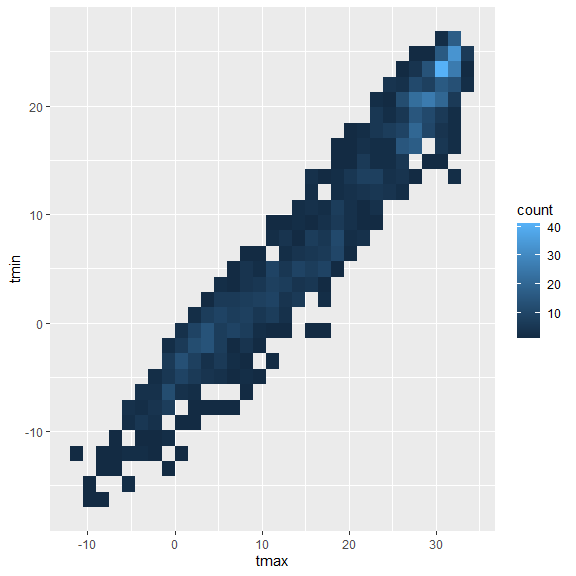
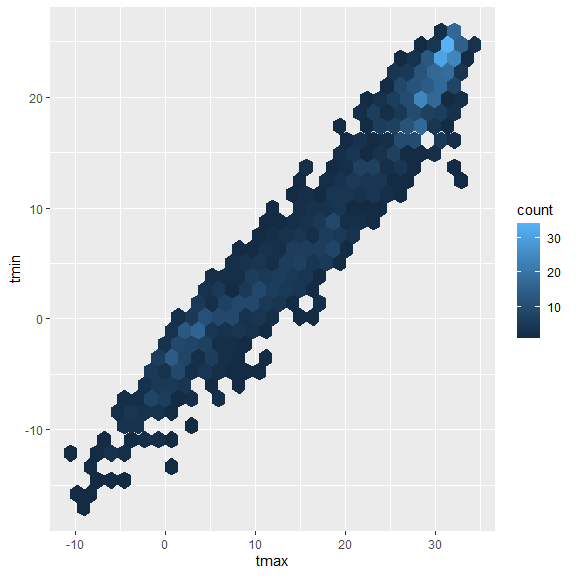
modified part 1

diff --git a/visualization.md b/visualization.md
@@ -7,14 +7,14 @@ Wenzhao Wu
 library(tidyverse)
 ```
 
-    ## -- Attaching packages ---------------------- tidyverse 1.3.0 --
+    ## -- Attaching packages ----------- tidyverse 1.3.0 --
 
     ## v ggplot2 3.3.2     v purrr   0.3.4
     ## v tibble  3.0.3     v dplyr   1.0.2
     ## v tidyr   1.1.2     v stringr 1.4.0
     ## v readr   1.3.1     v forcats 0.5.0
 
-    ## -- Conflicts ------------------------- tidyverse_conflicts() --
+    ## -- Conflicts -------------- tidyverse_conflicts() --
     ## x dplyr::filter() masks stats::filter()
     ## x dplyr::lag()    masks stats::lag()
 
@@ -170,15 +170,38 @@ ggplot(weather_df, aes(x = date, y = tmax, color = name)) +
 <img src="visualization_files/figure-gfm/unnamed-chunk-8-1.png" width="90%" />
 
 ``` r
-ggplot(weather_df,aes(x = tmax, y = tmin, color = "CentralPark_NY")) + geom_point() +
-geom_smooth(se = FALSE, color = "blue")
+weather_df %>%
+  mutate(
+    tmin = 9 * tmin / 5 + 32,
+    tmax = 9 * tmax / 5 + 32
+  )
 ```
 
-    ## `geom_smooth()` using method = 'gam' and formula 'y ~ s(x, bs = "cs")'
+    ## # A tibble: 1,095 x 6
+    ##    name           id          date        prcp  tmax  tmin
+    ##    <chr>          <chr>       <date>     <dbl> <dbl> <dbl>
+    ##  1 CentralPark_NY USW00094728 2017-01-01     0  48.0  39.9
+    ##  2 CentralPark_NY USW00094728 2017-01-02    53  41    37.0
+    ##  3 CentralPark_NY USW00094728 2017-01-03   147  43.0  39.0
+    ##  4 CentralPark_NY USW00094728 2017-01-04     0  52.0  34.0
+    ##  5 CentralPark_NY USW00094728 2017-01-05     0  34.0  27.1
+    ##  6 CentralPark_NY USW00094728 2017-01-06    13  33.1  25.2
+    ##  7 CentralPark_NY USW00094728 2017-01-07    81  26.2  20.1
+    ##  8 CentralPark_NY USW00094728 2017-01-08     0  25.2  16.2
+    ##  9 CentralPark_NY USW00094728 2017-01-09     0  23.2  14.2
+    ## 10 CentralPark_NY USW00094728 2017-01-10     0  46.0  21.2
+    ## # ... with 1,085 more rows
 
-    ## Warning: Removed 15 rows containing non-finite values (stat_smooth).
+``` r
+centralpark = 
+  subset(weather_df, name %in% ("CentralPark_NY"))
 
-    ## Warning: Removed 15 rows containing missing values (geom_point).
+ggplot(centralpark,aes(x = tmax, y = tmin, color = name)) + 
+  geom_point() +
+  geom_smooth(se = FALSE, color = "blue")
+```
+
+    ## `geom_smooth()` using method = 'loess' and formula 'y ~ x'
 
 <img src="visualization_files/figure-gfm/unnamed-chunk-9-1.png" width="90%" />
 
@@ -186,10 +209,10 @@ geom_smooth(se = FALSE, color = "blue")
 
 ``` r
 ggplot(weather_df, aes(x = tmax, y = tmin)) + 
-  geom_bin2d()
+  geom_hex()
 ```
 
-    ## Warning: Removed 15 rows containing non-finite values (stat_bin2d).
+    ## Warning: Removed 15 rows containing non-finite values (stat_binhex).
 
 <img src="visualization_files/figure-gfm/unnamed-chunk-10-1.png" width="90%" />
 
@@ -242,7 +265,8 @@ ggplot(weather_df, aes(x = tmax, fill = name)) +
 <img src="visualization_files/figure-gfm/unnamed-chunk-14-1.png" width="90%" />
 
 ``` r
-ggplot(weather_df, aes(x = name, y = tmax)) + geom_boxplot()
+ggplot(weather_df, aes(x = name, y = tmax)) + 
+  geom_boxplot()
 ```
 
     ## Warning: Removed 3 rows containing non-finite values (stat_boxplot).
@@ -338,3 +362,11 @@ ggsave("weather_plot.pdf", weather_plot, width = 8, height = 5)
 ```
 
     ## Warning: Removed 15 rows containing missing values (geom_point).
+
+``` r
+weather_plot
+```
+
+    ## Warning: Removed 15 rows containing missing values (geom_point).
+
+<img src="visualization_files/figure-gfm/unnamed-chunk-20-1.png" width="90%" />
